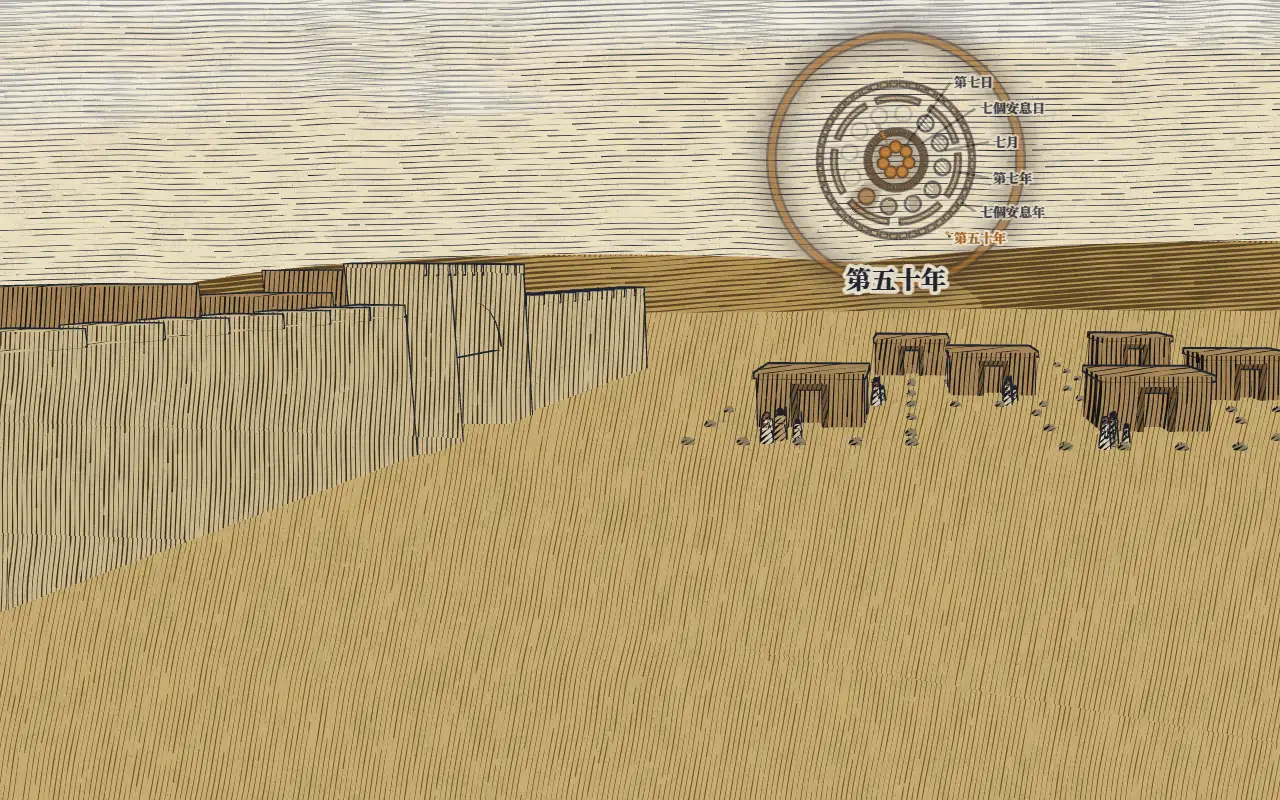
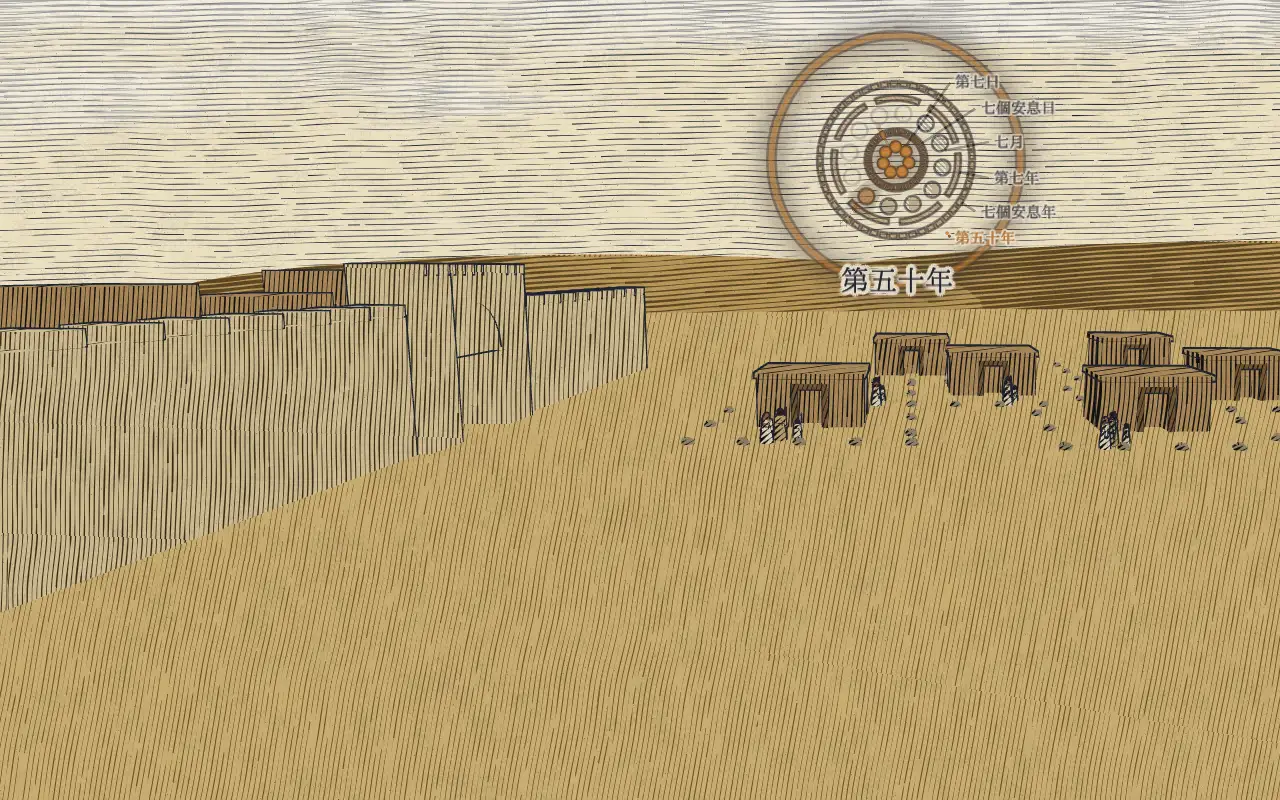
互動網站「耶和華的節期」：漩渦的字改用一點明體；手機構圖配合半高說明框
- 使用者嫌原本的字體與版畫風格不合，選定一點明體（I.Ming）。一點明體是 IPA Font License v1.0，
  抽子集屬派生字型，所以不嵌字型：用 tools/build-vortex-glyphs.py 預先把 12 個字串畫成圖集
  （src/scene/vortex-glyphs.png），字串唯一來源 src/scene/vortex-strings.json；字型檔不進版控。
  頁尾「資料來源與授權」加「字型」一塊。
- 手機說明框上限改成 50svh 之後，各 cue 往上推移統一少 0.07 畫面高（wailing、veil 不減），
  主體落在新的可用帶中段；check-subject-box 手機 70 拍重疊 ≥15% 0 拍。
- 檢查：typecheck、test 111、build；idle-motion 18 cue 桌機／手機全過；compare-coda 0.000%；
  file:// 字有出現；fallback 18 張重拍。

Changed region(s): [[0.75, 0.0938, 0.8438, 0.3125], [0.6562, 0.3125, 0.75, 0.375]]

diff --git a/appendix/website/摩西五經/耶和華的節期/src/scene/vortex-text.ts b/appendix/website/摩西五經/耶和華的節期/src/scene/vortex-text.ts
@@ -1,13 +1,17 @@
 // 漩渦上的字：每一圈旁邊一個小標籤、太陽正下方一行大字。
-// 字畫在 2D canvas 上、一次建好一張貼圖（系統中文字型；file:// 單檔輸出不能 fetch 字型檔），再套進場景的一個網格（7 個四邊形：6 個標籤＋1 個大字）。
+// 字是用一點明體（I.Ming，IPA Font License v1.0）預先畫好的圖集（src/scene/vortex-glyphs.png，tools/build-vortex-glyphs.py 產生；
+// 字型檔本身不進專案、不嵌進網站）。這裡把圖集縮放畫進 2D canvas、一次建好一張貼圖（file:// 單檔輸出：圖集被內嵌成 data URI），
+// 再套進場景的一個網格（7 個四邊形：6 個標籤＋1 個大字）。圖集還沒載入完不顯示字。
 // 螢幕座標（和漩渦同一個覆蓋層），跟漩渦一起動、一起淡出。貼圖的 R 通道＝字，G 通道＝字外的一圈底色暈（讓字壓在刻線上也看得清楚）。
 // 每幀不配置新物件：頂點屬性是預先配好的 Float32Array。尺寸（手機／桌機、DPR）變了才重建貼圖。
 import { BufferAttribute, BufferGeometry, CanvasTexture, LinearFilter, Mesh, ShaderMaterial, Vector3 } from 'three';
 import { U } from './materials';
+import glyphUrl from './vortex-glyphs.png?inline';
+import glyphMeta from './vortex-glyphs.json';
+import strings from './vortex-strings.json';
 
-export const RING_LABELS = ['第七日', '七個安息日', '七月', '第七年', '七個安息年', '第五十年'] as const;
-export const BIG_LINES = ['第七日', '七個安息日，共計五十天', '七月', '第七年', '七七年，共是四十九年', '第五十年'] as const;
-export const FONT = '"Noto Serif TC", "Songti TC", "PMingLiU", "MingLiU", "Microsoft JhengHei", serif';
+export const RING_LABELS: readonly string[] = strings.ringLabels;
+export const BIG_LINES: readonly string[] = strings.bigLines;
 
 const N = BIG_LINES.length + RING_LABELS.length; // 貼圖裡的字串數：0..5 標籤，6..11 大字
 const QUADS = 7; // 0..5 標籤，6 大字
@@ -38,7 +42,7 @@ varying float vA;
 varying float vH;
 void main() {
   vec4 t = texture2D(uTex, vUv);
-  float fill = t.r;
+  float fill = pow(t.r, 0.5); // 明體的細筆畫縮小後覆蓋率偏低，用 gamma 補回對比（不改字形）
   float halo = t.g * 0.95;
   float a0 = max(fill, halo);
   float a = a0 * vA;
@@ -79,6 +83,7 @@ export class VortexText {
   private kS = 0;
   private kB = 0;
   private kD = 0;
+  private glyphs: HTMLImageElement | null = null;
   private pad = 0;
   private atlasW = 1;
   private atlasH = 1;
@@ -119,10 +124,19 @@ export class VortexText {
     this.mesh.frustumCulled = false;
     this.mesh.renderOrder = 1.6;
     this.mesh.visible = false;
+    this.busy = true; // 圖集載入完要再畫一次，閒置跳幀的迴圈先別睡
+    const img = new Image();
+    img.onload = () => {
+      this.glyphs = img;
+      this.kS = 0; // 強制重建貼圖
+    };
+    img.src = glyphUrl;
   }
 
   /** 尺寸有變才重建貼圖。smallPx／bigPx：CSS px；dpr：緩衝／CSS */
   setSize(smallPx: number, bigPx: number, dpr: number): void {
+    const img = this.glyphs;
+    if (!img) return;
     if (smallPx === this.kS && bigPx === this.kB && Math.abs(dpr - this.kD) < 0.0005) return;
     this.kS = smallPx;
     this.kB = bigPx;
@@ -132,19 +146,18 @@ export class VortexText {
     const pad = Math.ceil(Math.max(smallPx, bigPx) * dpr * 0.2) + 2;
     this.pad = pad;
     const make = (): HTMLCanvasElement => document.createElement('canvas');
-    const probe = make().getContext('2d')!;
-    // 量每個字串的大小，排成一欄
-    const px = (i: number): number => (i < RING_LABELS.length ? smallPx : bigPx) * dpr;
-    const text = (i: number): string => (i < RING_LABELS.length ? RING_LABELS[i] : BIG_LINES[i - RING_LABELS.length]);
+    // 各字串縮放後的大小，排成一欄。縮放比 = 要的字高（緩衝 px）／圖集的繪製字高
+    const rects = glyphMeta.rects;
+    const sc = (i: number): number => ((i < RING_LABELS.length ? smallPx : bigPx) * dpr) / rects[i].px;
     this.slots.length = 0;
     let y = 0;
     let maxW = 1;
     for (let i = 0; i < N; i++) {
-      probe.font = `700 ${px(i)}px ${FONT}`;
-      const tw = probe.measureText(text(i)).width;
-      const w = Math.ceil(tw) + pad * 2;
-      const h = Math.ceil(px(i) * 1.3) + pad * 2;
-      this.slots.push({ x: 0, y, w, h, textW: tw / dpr });
+      const r = rects[i];
+      const w = Math.round(r.w * sc(i)) + pad * 2;
+      const h = Math.round(r.h * sc(i)) + pad * 2;
+      // 字本身（扣掉圖集裡的邊）的寬，CSS px
+      this.slots.push({ x: 0, y, w, h, textW: ((r.w - 8) * sc(i)) / dpr });
       y += h;
       maxW = Math.max(maxW, w);
     }
@@ -158,24 +171,23 @@ export class VortexText {
     fillC.height = haloC.height = y;
     const f = fillC.getContext('2d', { willReadFrequently: true })!;
     const h = haloC.getContext('2d', { willReadFrequently: true })!;
-    for (const g of [f, h]) {
-      g.textAlign = 'center';
-      g.textBaseline = 'middle';
-      g.lineJoin = 'round';
-      g.fillStyle = '#fff';
-      g.strokeStyle = '#fff';
-    }
+    f.imageSmoothingQuality = 'high';
+    h.imageSmoothingQuality = 'high';
     for (let i = 0; i < N; i++) {
       const s = this.slots[i];
-      const cy = s.y + s.h / 2 + px(i) * 0.04;
-      const cx = s.x + s.w / 2;
-      const font = `700 ${px(i)}px ${FONT}`;
-      f.font = font;
-      h.font = font;
-      f.fillText(text(i), cx, cy);
-      h.lineWidth = px(i) * 0.3;
-      h.strokeText(text(i), cx, cy);
-      h.fillText(text(i), cx, cy);
+      const r = rects[i];
+      const dw = s.w - pad * 2;
+      const dh = s.h - pad * 2;
+      f.drawImage(img, r.x, r.y, r.w, r.h, s.x + pad, s.y + pad, dw, dh);
+      // 暈：同一張圖在兩圈、各 12 個角度位移各畫一次（半徑 0.15、0.075 個字高）
+      const px = (i < RING_LABELS.length ? smallPx : bigPx) * dpr;
+      for (const rad of [0.15, 0.075]) {
+        for (let a = 0; a < 12; a++) {
+          const t = (a / 12) * Math.PI * 2;
+          h.drawImage(img, r.x, r.y, r.w, r.h, s.x + pad + Math.cos(t) * rad * px, s.y + pad + Math.sin(t) * rad * px, dw, dh);
+        }
+      }
+      h.drawImage(img, r.x, r.y, r.w, r.h, s.x + pad, s.y + pad, dw, dh);
     }
     const out = make();
     out.width = maxW;
@@ -263,6 +275,12 @@ export class VortexText {
     ink: Vector3,
     lit: Vector3,
   ): boolean {
+    if (this.slots.length === 0) {
+      // 圖集還沒載入：不顯示字，載入後下一幀會重建貼圖
+      this.busy = true;
+      this.mesh.visible = false;
+      return false;
+    }
     // 顏色：暈用「另一個」底色；白天亮色模式的亮橘壓深一點，不然壓在淡黃的天上看不清
     this.inkC.copy(ink);
     const sum = (U.uPaper.value as Vector3).x + (U.uInk.value as Vector3).x;

diff --git a/appendix/website/摩西五經/耶和華的節期/src/scene/world.ts b/appendix/website/摩西五經/耶和華的節期/src/scene/world.ts
@@ -1,4 +1,4 @@
-// 夜間世界與隔日世界：所有場景物件與它們隨 s（cue＋進度）的狀態。
+// 夜間世界與隔日世界：所有場景物件與它們隨 s（cue＋進度）的狀態。
 import {
   BoxGeometry,
   Color,
@@ -35,7 +35,7 @@ import {
   type PersonOpts,
 } from './geo';
 import { decalMat, FIXED, glowMat, hullMat, litMat, moonMat, setGlowFlick, skyMat, solid, solidInstanced, sunMat, U } from './materials';
-import { c as cu, CUE_IDX, CUT, DAY_S, HYSSOP_IDX, OX, departDist, dxShiftAt, foldReliefAt, inCoda, inEgyptReplay, isAutumnCamp, lp, torchOn, upShiftAt, windowOff, worldAt, type TrackOut } from './tracks';
+import { c as cu, CUE_IDX, CUT, DAY_S, HYSSOP_IDX, OX, departDist, dxShiftAt, foldReliefAt, inCoda, inEgyptReplay, isAutumnCamp, lp, torchOn, upShiftAt, boxEaseAt, windowOff, worldAt, type TrackOut } from './tracks';
 import { Autumn } from './autumn';
 import { BlowFx } from './blowfx';
 import { Gate, Gilgal, Ruth, Temple } from './echoes';
@@ -660,7 +660,8 @@ export class World {
     let shiftY = 0;
     // 說明框收起時，留給說明框的推移（左右／往上）依 fold 歸零；有互動按鈕留著的拍不歸零（foldReliefAt）
     const relief = 1 - (fr.fold ?? 0) * foldReliefAt(s);
-    if (mobileUI) shiftY = upShiftAt(s) * H * relief;
+    // 各 cue 的 UP 是照說明框最高 66svh 調的；說明框上限改成 50svh 後可用的上方空間變大，整體少推 boxEaseAt，主體落在新可用帶的中段
+    if (mobileUI) shiftY = Math.max(0, upShiftAt(s) - boxEaseAt(s)) * H * relief;
     const aw = mobileUI ? 0 : smooth(1.05, 1.3, aspect);
     if (aw > 0) {
       // 塗血那一拍：說明框固定在左邊，門＋盆＋把手整組擺在右側

diff --git a/appendix/website/摩西五經/耶和華的節期/src/ui/ending.ts b/appendix/website/摩西五經/耶和華的節期/src/ui/ending.ts
@@ -177,6 +177,8 @@ function buildEnding(chapter: StoryChapter, group: StoryChapter[], echo: EchoUI)
 
 const CC0 = 'https://creativecommons.org/publicdomain/zero/1.0/';
 const CC_BY = 'https://creativecommons.org/licenses/by/4.0/';
+const IMING_REPO = 'https://github.com/ichitenfont/I.Ming';
+const IPA_LICENSE = 'https://opensource.org/license/ipa';
 
 function audioItem(a: AudioSource): HTMLElement {
   const pages = a.pages && a.pages.length ? a.pages : [a.page];
@@ -219,5 +221,8 @@ export function buildCredits(): HTMLElement {
       h('div', { class: 'jf-credit-block' },
         h('h3', null, '音檔'),
         h('ul', { class: 'jf-audio-list' }, SITE.audio.map(audioItem))),
+      h('div', { class: 'jf-credit-block' },
+        h('h3', null, '字型'),
+        h('p', null, '漩渦上的字以一點明體（', ext(IMING_REPO, 'I.Ming'), '）預先繪成圖片使用；一點明體依 ', ext(IPA_LICENSE, 'IPA Font License v1.0'), ' 授權。')),
       h('p', { class: 'jf-credits-note' }, '本網站僅供非商業教育與聖經研讀使用。')));
 }

diff --git a/appendix/website/摩西五經/耶和華的節期/src/scene/vortex.ts b/appendix/website/摩西五經/耶和華的節期/src/scene/vortex.ts
@@ -418,8 +418,8 @@ export class Vortex {
     const endN = outer + 0.06;
     const endPx = endN * sc;
     const codaF = inCoda ? 1 - smooth(0.04, 0.3, lp(s, 'coda-night')) : 1;
-    const smallPx = mobile ? 12 : clamp(Math.round(H * 0.0165), 13, 17);
-    const bigPx = mobile ? 17 : clamp(Math.round(H * 0.031), 22, 30);
+    const smallPx = mobile ? 13 : clamp(Math.round(H * 0.0185), 14, 19);
+    const bigPx = mobile ? 18 : clamp(Math.round(H * 0.035), 24, 33);
     this.text.setSize(smallPx, bigPx, dpr);
     const rowMode = mobile && !BIG.has(cur);
     const rowGap = Math.min(18, (0.9 * endPx) / 2.5);

diff --git a/appendix/website/摩西五經/耶和華的節期/src/scene/tracks.ts b/appendix/website/摩西五經/耶和華的節期/src/scene/tracks.ts
@@ -412,6 +412,13 @@ export function foldReliefAt(s: number): number {
   sampleKeys(FOLD_RELIEF, s, _fr);
   return _fr[0];
 }
+/** 手機說明框上限 66svh→50svh 之後，往上推移統一減掉的量（畫面高度比例）；主體本來就偏低的 cue 不減 */
+const BOX_EASE = perCue({ wailing: [0], veil: [0] }, [0.07]);
+const _be = [0];
+export function boxEaseAt(s: number): number {
+  sampleKeys(BOX_EASE, s, _be);
+  return _be[0];
+}
 const _up = [0];
 export function upShiftAt(s: number): number {
   sampleKeys(UP, s, _up);

diff --git a/appendix/website/摩西五經/耶和華的節期/tools/build-vortex-glyphs.py b/appendix/website/摩西五經/耶和華的節期/tools/build-vortex-glyphs.py
@@ -1,0 +1,59 @@
+#!/usr/bin/env python3
+# 把「七的節奏」漩渦上的字，用一點明體（I.Ming）Regular 預先畫成一張白字透明底的圖集：
+#   src/scene/vortex-glyphs.png   圖集（白字、透明底）
+#   src/scene/vortex-glyphs.json  每個字串在圖集裡的矩形（順序：6 個標籤、6 行大字）與繪製字高
+# 字串來源：src/scene/vortex-strings.json（vortex-text.ts 也讀同一份，不手抄兩份）。
+#
+# 授權：一點明體是 IPA Font License v1.0。從字型抽子集等於「派生程式」，有改名、附授權等義務，
+# 所以字型檔與子集都不進版控、不嵌進網站；只把用字型畫出的圖片（數位內容）放進網站。
+#
+# 用法：python tools/build-vortex-glyphs.py [字型路徑]      （或設環境變數 IMING_FONT）
+# 字型下載：https://github.com/ichitenfont/I.Ming/raw/master/8.10/I.Ming-8.10.ttf
+# 需要 Pillow：pip install Pillow
+import json
+import os
+import sys
+from pathlib import Path
+
+try:
+    from PIL import Image, ImageDraw, ImageFont
+except ImportError:
+    sys.exit('需要 Pillow：pip install Pillow')
+
+root = Path(__file__).resolve().parent.parent
+font_path = Path(sys.argv[1] if len(sys.argv) > 1 else os.environ.get('IMING_FONT', ''))
+if not font_path.is_file():
+    sys.exit('找不到一點明體字型檔。請從 https://github.com/ichitenfont/I.Ming/raw/master/8.10/I.Ming-8.10.ttf 下載，\n'
+             '再用 python tools/build-vortex-glyphs.py <路徑> 或設環境變數 IMING_FONT 指定（字型檔不要放進專案）。')
+
+LABEL_PX = 64   # 標籤的繪製字高（縮小時才清楚）
+BIG_PX = 112    # 大字的繪製字高
+MARGIN = 4
+
+strings = json.loads((root / 'src/scene/vortex-strings.json').read_text(encoding='utf-8'))
+items = [(s, LABEL_PX) for s in strings['ringLabels']] + [(s, BIG_PX) for s in strings['bigLines']]
+
+fonts = {px: ImageFont.truetype(str(font_path), px) for px in {LABEL_PX, BIG_PX}}
+rects = []
+y = 0
+width = 1
+for text, px in items:
+    f = fonts[px]
+    asc, desc = f.getmetrics()
+    w = int(f.getlength(text) + 0.999) + MARGIN * 2
+    h = asc + desc + MARGIN * 2
+    rects.append({'x': 0, 'y': y, 'w': w, 'h': h, 'base': MARGIN + asc, 'px': px})
+    y += h
+    width = max(width, w)
+
+img = Image.new('RGBA', (width, y), (255, 255, 255, 0))
+d = ImageDraw.Draw(img)
+for (text, px), r in zip(items, rects):
+    d.text((r['x'] + MARGIN, r['y'] + r['base']), text, font=fonts[px], fill=(255, 255, 255, 255), anchor='ls')
+
+out_png = root / 'src/scene/vortex-glyphs.png'
+img.save(out_png, optimize=True)
+(root / 'src/scene/vortex-glyphs.json').write_text(
+    json.dumps({'labelPx': LABEL_PX, 'bigPx': BIG_PX, 'width': width, 'height': y, 'rects': rects}, ensure_ascii=False, indent=1) + '\n',
+    encoding='utf-8')
+print(f'{out_png}  {width}x{y}  {out_png.stat().st_size // 1024} KB')
